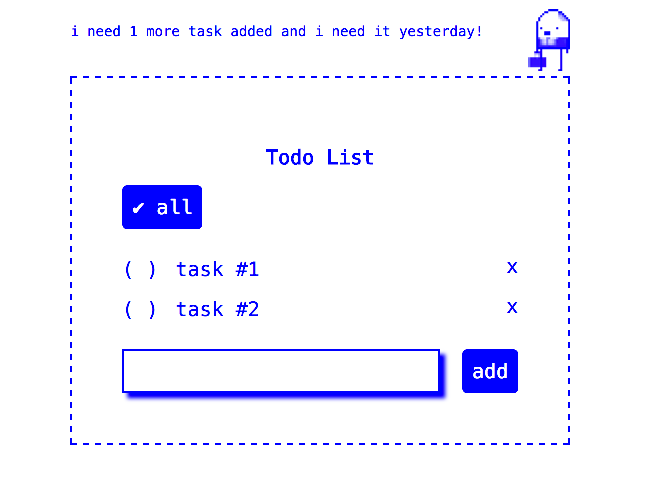
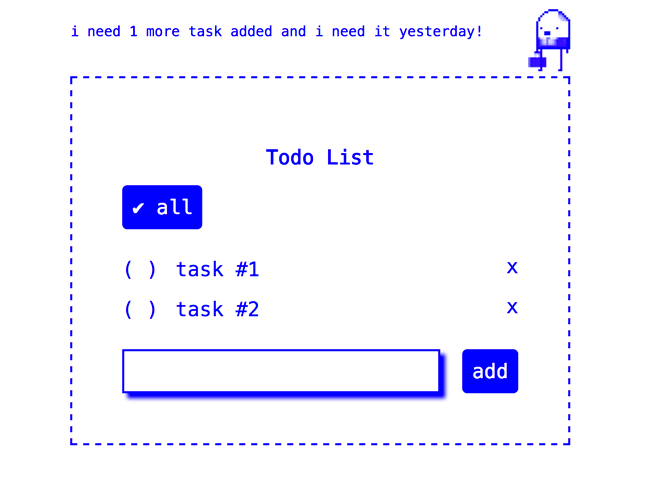
update readme;

diff --git a/README.md b/README.md
@@ -1,3 +1,5 @@
 # todooblr
 
+![todooblr](https://github.com/tomhuhges/todooblr/blob/master/todooblr-screenshot.png?raw=true)
+
 a todo app with gamified "feature releases" and other ridiculous things to demonstrate my code organisation skills (uses oop + mvc principles)
